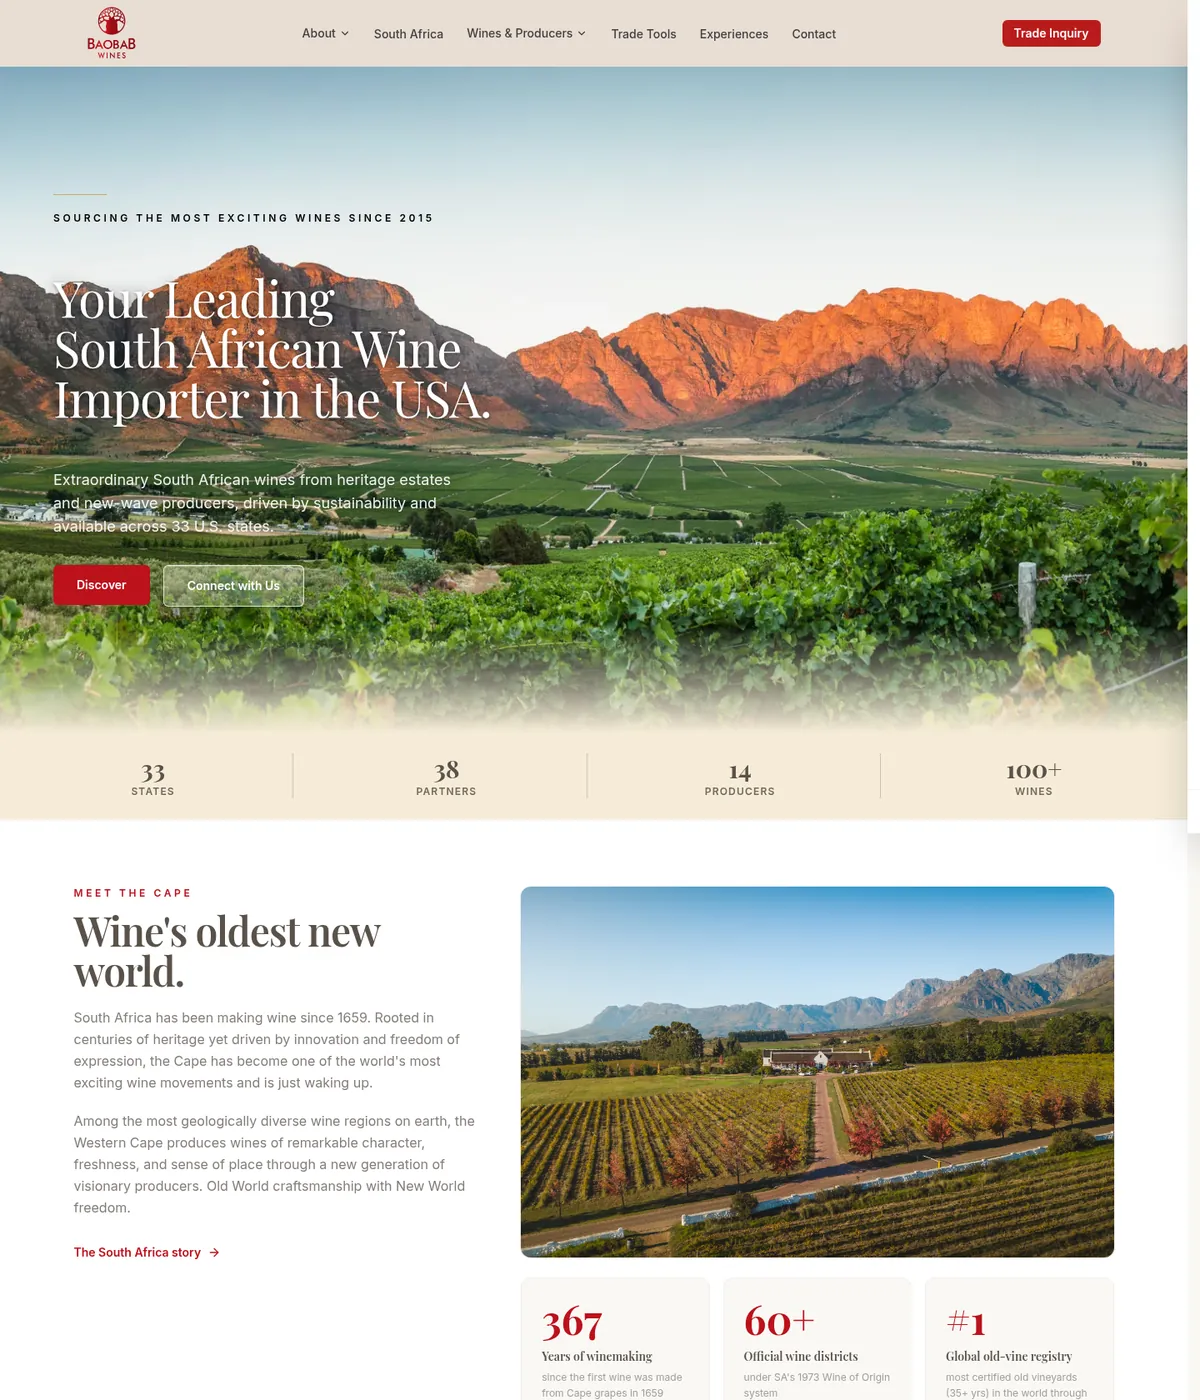
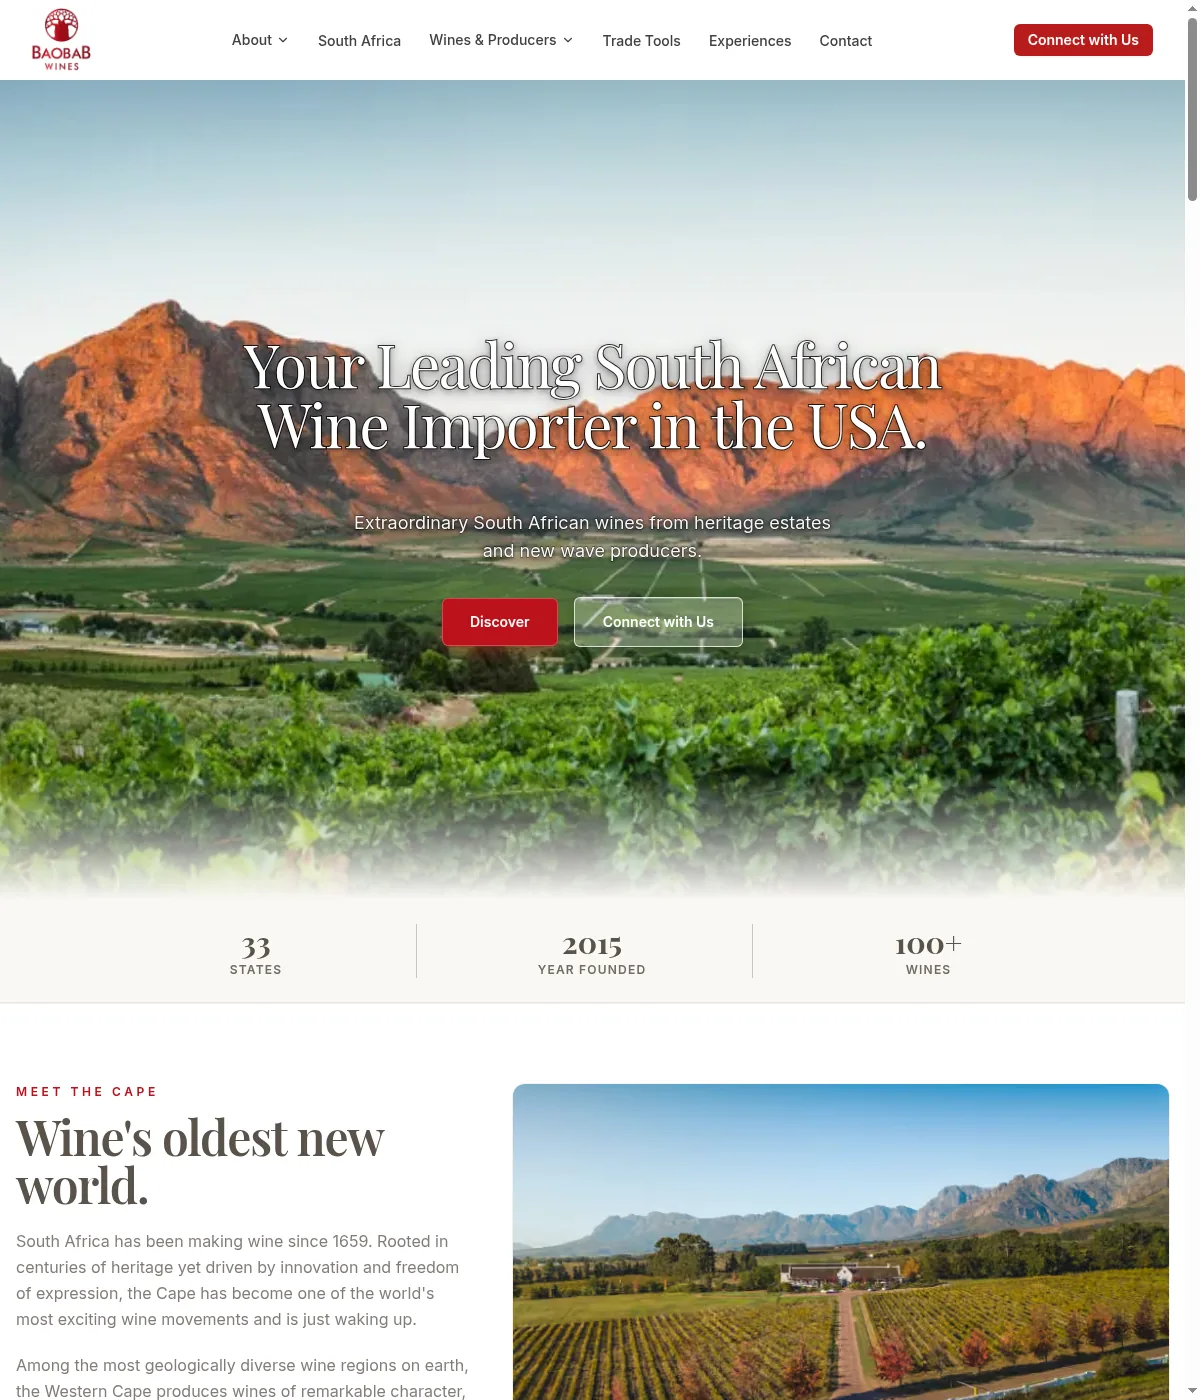
Feature Baobab Wines on the homepage + fix the Search Console redirect and indexing buckets (#32)
* feat(portfolio): feature Baobab Wines as the most recent project

Baobab Wines is live at baobabwines.com with permission from the client, so
it moves out of the "Launching soon" grid card and into the large feature
tile, relabelled "Most recent project". RankSentinel takes the freed grid
slot, keeping the grid an even 3x2, and the cards are reordered most-recent
first: RankSentinel, PC Quanti, AI Focus, Deene Social, Jacqui Chowles,
ReachRight. The logo marquee follows the same order.

The Baobab preview image is re-captured from the current live homepage,
replacing the pre-launch screenshot and the old github.io URL.

Claude-Session: https://claude.ai/code/session_019avkmgUTPETZ8xkQQydVV4

* fix(seo): remove the internal links and redirect targets Google reports as redirects

Search Console lists seven URLs under "Page with redirect" and four under
"Redirect error". Three causes, all in our own markup:

- The footer, the terms pages and the enterprise CTA linked to /privacy,
  /terms, /terms/full and /contact-enterprise without a trailing slash.
  Cloudflare Pages serves the directory form, so every one of those links was
  a 308 for both users and Googlebot. They now point at the slash form that is
  actually served.
- The homepage-anchor redirects in public/_redirects pointed at /#anchor. A
  fragment never reaches the server, so the resolved target is the homepage
  either way; spelling that out keeps the redirect target unambiguous instead
[…]

diff --git a/website/src/pages/Index.tsx b/website/src/pages/Index.tsx
@@ -28,8 +28,8 @@ import {
 } from "@/lib/pricing";
 import "@/styles/home.css";
 
-import pcquantiFull from "@/assets/portfolio/pcquanti-full.webp";
-import pcquantiFullSm from "@/assets/portfolio/pcquanti-full-sm.webp";
+import baobabwinesFull from "@/assets/portfolio/baobabwines-full.webp";
+import baobabwinesFullSm from "@/assets/portfolio/baobabwines-full-sm.webp";
 import ranksentinelImg from "@/assets/portfolio/ranksentinel.webp";
 import pcquantiImg from "@/assets/portfolio/pcquanti.webp";
 import reachrightImg from "@/assets/portfolio/reachright.webp";
@@ -58,12 +58,12 @@ type Project = {
 };
 
 const PROJECTS: Project[] = [
-  { img: pcquantiImg, url: "https://pcquanti.co.za", host: "pcquanti.co.za", name: "PC Quanti", status: "live", label: "Live", delay: ".05s" },
-  { img: reachrightImg, url: "https://reachrightmarketing.com", host: "reachrightmarketing.com", name: "ReachRight", status: "live", label: "Live", delay: ".1s" },
-  { img: deenesocialImg, url: "https://deenesocial.com", host: "deenesocial.com", name: "Deene Social", status: "live", label: "Live", delay: ".15s" },
-  { img: aifocusImg, url: "https://aifocus.work", host: "aifocus.work", name: "AI Focus", status: "live", label: "Live", delay: ".2s" },
+  { img: baobabwinesImg, url: "https://baobabwines.com", host: "baobabwines.com", name: "Baobab Wines", status: "live", label: "Live", delay: ".05s" },
+  { img: pcquantiImg, url: "https://pcquanti.co.za", host: "pcquanti.co.za", name: "PC Quanti", status: "live", label: "Live", delay: ".1s" },
+  { img: aifocusImg, url: "https://aifocus.work", host: "aifocus.work", name: "AI Focus", status: "live", label: "Live", delay: ".15s" },
+  { img: deenesocialImg, url: "https://deenesocial.com", host: "deenesocial.com", name: "Deene Social", status: "live", label: "Live", delay: ".2s" },
   { img: jacquichowlesImg, url: "https://jacquichowles.com", host: "jacquichowles.com", name: "Jacqui Chowles", status: "live", label: "Live", delay: ".25s" },
-  { img: baobabwinesImg, url: "https://jonathanavis96.github.io/baobab-wines/", host: "baobab-wines", name: "Baobab Wines", status: "soon", label: "Launching soon", delay: ".3s" },
+  { img: reachrightImg, url: "https://reachrightmarketing.com", host: "reachrightmarketing.com", name: "ReachRight", status: "live", label: "Live", delay: ".3s" },
 ];
 
 const FAQS: { q: string; a: string }[] = [
@@ -431,15 +431,15 @@ export default function Index() {
             <div className="hero-ai"><span className="cyandot" />Built to be found by AI, not just Google.</div>
           </div>
           <div className="heroframe-wrap">
-            <div className="frame clickable" data-url="https://pcquanti.co.za">
+            <div className="frame clickable" data-url="https://baobabwines.com">
               <div className="fbar">
                 <Lights />
-                <span className="u">pcquanti.co.za</span>
+                <span className="u">baobabwines.com</span>
               </div>
               <button className="expand" title="Open preview" type="button">⤢</button>
               <picture>
-                <source media="(max-width: 860px)" srcSet={pcquantiFullSm} type="image/webp" />
-                <img src={pcquantiFull} alt="PC Quanti website preview" decoding="async" />
+                <source media="(max-width: 860px)" srcSet={baobabwinesFullSm} type="image/webp" />
+                <img src={baobabwinesFull} alt="Baobab Wines website preview" decoding="async" />
               </picture>
             </div>
           </div>
@@ -594,7 +594,7 @@ export default function Index() {
           <div className="marq">
             <div className="track">
               {[0, 1].map((dup) =>
-                ["ReachRight", "Deene Social", "Jacqui Chowles", "RankSentinel", "PC Quanti", "AI Focus", "Baobab Wines"].map((n) => (
+                ["Baobab Wines", "RankSentinel", "PC Quanti", "AI Focus", "Deene Social", "Jacqui Chowles", "ReachRight"].map((n) => (
                   <span key={`${dup}-${n}`}>{n}</span>
                 ))
               )}
@@ -644,7 +644,7 @@ export default function Index() {
               <h3>Custom / Enterprise</h3>
               <p>For bigger or bespoke projects (e-commerce, bookings, integrations), we scope a tailored monthly plan.</p>
             </div>
-            <Link to="/contact-enterprise" className="btn">Talk to us</Link>
+            <Link to="/contact-enterprise/" className="btn">Talk to us</Link>
           </div>
           <p className="pricenote">Free build to get started. Hosting, SSL, backups and pro email included. Need separate mailboxes? Add professional mailbox aliases at {formatAmount(region, MAILBOX_PRICE[region])}/month each.</p>
         </div>

diff --git a/website/scripts/prerender.js b/website/scripts/prerender.js
@@ -15,6 +15,7 @@
 import fs from "fs";
 import path from "path";
 import { fileURLToPath, pathToFileURL } from "url";
+import { execFileSync } from "child_process";
 
 const __dirname = path.dirname(fileURLToPath(import.meta.url));
 const root = path.join(__dirname, "..");
@@ -100,6 +101,35 @@ for (const route of prerenderRoutes) {
 {
   const SITE = "https://alldonesites.com";
   const today = new Date().toISOString().slice(0, 10);
+
+  // lastmod must reflect when the content actually changed, not when we last
+  // deployed. Stamping every URL with today's date on every build teaches
+  // Google to ignore the field entirely, which is the opposite of what we want
+  // for guides and articles we need recrawled promptly. Take the date from the
+  // last commit that touched the file the route's content comes from.
+  const contentFileFor = (route) => {
+    if (route.startsWith("/guides")) return "src/content/guides.tsx";
+    if (route.startsWith("/articles")) return "src/content/articles.tsx";
+    return "src/pages/Index.tsx";
+  };
+  const lastmodCache = new Map();
+  const lastmodFor = (route) => {
+    const file = contentFileFor(route);
+    if (!lastmodCache.has(file)) {
+      let date = today;
+      try {
+        date =
+          execFileSync("git", ["log", "-1", "--format=%cs", "--", file], {
+            cwd: root,
+            encoding: "utf8",
+          }).trim() || today;
+      } catch {
+        // not a git checkout (or git missing) — fall back to the build date
+      }
+      lastmodCache.set(file, date);
+    }
+    return lastmodCache.get(file);
+  };
   const toUrl = (route) => {
     if (route === "/") return `${SITE}/`;
     const clean = route.replace(/^\//, "").replace(/\/$/, "");
@@ -110,7 +140,7 @@ for (const route of prerenderRoutes) {
     const isIndex = r === "/guides" || r === "/articles";
     const priority = r === "/" ? "1.0" : isIndex ? "0.8" : "0.7";
     const changefreq = r === "/" ? "weekly" : "monthly";
-    return `  <url>\n    <loc>${loc}</loc>\n    <lastmod>${today}</lastmod>\n    <changefreq>${changefreq}</changefreq>\n    <priority>${priority}</priority>\n  </url>`;
+    return `  <url>\n    <loc>${loc}</loc>\n    <lastmod>${lastmodFor(r)}</lastmod>\n    <changefreq>${changefreq}</changefreq>\n    <priority>${priority}</priority>\n  </url>`;
   });
   const xml =
     `<?xml version="1.0" encoding="UTF-8"?>\n` +

diff --git a/website/functions/_middleware.js b/website/functions/_middleware.js
@@ -1,0 +1,48 @@
+/**
+ * 301 the legacy spa-github-pages shim URLs to their real path.
+ *
+ * The old GitHub Pages deploy used the rafgraph 404 shim, which encoded a deep
+ * link into the query string: `/?/pricing`, `/?/portfolio`, `/?/contact`. Those
+ * URLs still serve 200 with the homepage in them, so Google holds them as
+ * separate, duplicate-looking pages — all three showed up under "Crawled –
+ * currently not indexed" in Search Console, last crawled between February and
+ * May 2026.
+ *
+ * `_redirects` cannot match on a query string, so this runs as a Pages Function
+ * instead. It is deliberately a single cheap check with an early return, since
+ * it sits in front of every request to the site.
+ */
+
+// Routes that were folded into the homepage in the redesign and are already
+// 301'd there by `public/_redirects`. Sending the shim URL straight to `/`
+// keeps it to one hop instead of `/?/pricing -> /pricing -> /`.
+const FOLDED_INTO_HOMEPAGE = new Set([
+  "/how-it-works",
+  "/pricing",
+  "/portfolio",
+  "/faq",
+  "/contact",
+]);
+
+export async function onRequest(context) {
+  const url = new URL(context.request.url);
+
+  if (url.search.startsWith("?/")) {
+    // The shim wrote `&` as `~and~`; undo that before rebuilding the path.
+    const [rawPath, rawQuery] = url.search.slice(2).replace(/~and~/g, "&").split("?");
+    const target = new URL(url.origin);
+    const path = rawPath.startsWith("/") ? rawPath : `/${rawPath}`;
+    if (FOLDED_INTO_HOMEPAGE.has(path.replace(/\/$/, ""))) {
+      target.pathname = "/";
+    } else {
+      // Pages serves the directory form, so land on it directly rather than
+      // handing the crawler a second 308 on the way.
+      target.pathname = path.endsWith("/") ? path : `${path}/`;
+    }
+    if (rawQuery) target.search = rawQuery;
+    target.hash = url.hash;
+    return Response.redirect(target.toString(), 301);
+  }
+
+  return context.next();
+}

diff --git a/website/src/components/Seo.tsx b/website/src/components/Seo.tsx
@@ -10,6 +10,13 @@ interface SeoProps {
    * If omitted, we compute a sensible default: <origin>/<base>/og.png
    */
   image?: string;
+  /**
+   * Keep the page out of search results. Use for pages that exist only as a
+   * step in a flow (payment confirmation, client-only documents) — they are
+   * crawlable but have no search value, and leaving them indexable is what
+   * produces "Crawled – currently not indexed" noise in Search Console.
+   */
+  noindex?: boolean;
 }
 
 /** Normalize spa-github-pages URLs:
@@ -37,7 +44,7 @@ function normalizeCanonical(raw: string): string {
   }
 }
 
-export default function Seo({ title, description, canonical, jsonLd, image }: SeoProps) {
+export default function Seo({ title, description, canonical, jsonLd, image, noindex }: SeoProps) {
   // 1) Decide canonical: explicit prop wins; else compute from window.location
   let computedCanonical = canonical;
   if (!computedCanonical && typeof window !== "undefined") {
@@ -66,6 +73,7 @@ export default function Seo({ title, description, canonical, jsonLd, image }: Se
       {/* Basic SEO */}
       <title>{title}</title>
       <meta name="description" content={description} />
+      {noindex && <meta name="robots" content="noindex, follow" />}
       {computedCanonical && <link rel="canonical" href={computedCanonical} />}
 
       {/* Open Graph (lightweight, no overkill) */}

diff --git a/website/src/components/layout/Layout.tsx b/website/src/components/layout/Layout.tsx
@@ -143,19 +143,19 @@ export const SiteFooter = () => {
             Contact
           </NavLink>
           <span className="text-muted-foreground">|</span>
-          <NavLink to="/terms#refund-policy" className="text-muted-foreground hover:text-foreground">
+          <NavLink to="/terms/#refund-policy" className="text-muted-foreground hover:text-foreground">
             Refund Policy
           </NavLink>
           <span className="text-muted-foreground">|</span>
-          <NavLink to="/terms#cancellation-policy" className="text-muted-foreground hover:text-foreground">
+          <NavLink to="/terms/#cancellation-policy" className="text-muted-foreground hover:text-foreground">
             Cancellation Policy
           </NavLink>
           <span className="text-muted-foreground">|</span>
-          <NavLink to="/privacy" className="text-muted-foreground hover:text-foreground">
+          <NavLink to="/privacy/" className="text-muted-foreground hover:text-foreground">
             Privacy Policy
           </NavLink>
           <span className="text-muted-foreground">|</span>
-          <NavLink to="/terms/full" className="text-muted-foreground hover:text-foreground">
+          <NavLink to="/terms/full/" className="text-muted-foreground hover:text-foreground">
             Subscription Agreement
           </NavLink>
         </nav>

diff --git a/website/scripts/generate-static-pages.js b/website/scripts/generate-static-pages.js
@@ -40,7 +40,11 @@ const routes = [
     path: 'thank-you',
     title: 'Thank You',
     description: 'Thanks for getting in touch with All Done Sites. We will reply within one business day.',
-    ogTitle: 'Thank You - All Done Sites'
+    ogTitle: 'Thank You - All Done Sites',
+    // Post-payment confirmation. It has no search value, and leaving it
+    // indexable is what puts it in Search Console's "Crawled – currently not
+    // indexed" bucket. `follow` so the footer links are still crawled.
+    noindex: true
   },
   {
     path: 'terms',
@@ -95,6 +99,14 @@ routes.forEach(route => {
     /<meta name="description" content="[^"]*"/i,
     `<meta name="description" content="${route.description}"`
   );
+
+  // Keep flow-only pages out of the index
+  if (route.noindex) {
+    html = html.replace(
+      /<\/head>/i,
+      '  <meta name="robots" content="noindex, follow">\n</head>'
+    );
+  }
 
   // Update Open Graph URL
   html = html.replace(

diff --git a/website/src/pages/Terms.tsx b/website/src/pages/Terms.tsx
@@ -61,7 +61,7 @@ export default function Terms() {
             Payment processing is handled by <strong>Paystack</strong>; we do not store full card details on our servers.
           </p>
           <p>
-            For the full details, see our <Link to="/privacy">Privacy Policy</Link>.
+            For the full details, see our <Link to="/privacy/">Privacy Policy</Link>.
           </p>
         </section>
 
@@ -97,7 +97,7 @@ export default function Terms() {
           <h2>Full Subscription Agreement</h2>
           <p>
             The above policies are a summary. For the complete legal framework, read our{" "}
-            <Link to="/terms/full">Full Subscription Agreement</Link>.
+            <Link to="/terms/full/">Full Subscription Agreement</Link>.
           </p>
         </section>
       </div>

diff --git a/website/src/components/redesign/RedesignChrome.tsx b/website/src/components/redesign/RedesignChrome.tsx
@@ -87,8 +87,8 @@ export function RedesignFooter() {
           <div className="col">
             <div className="ftitle">Company</div>
             <Link to="/#getquote">Contact</Link>
-            <Link to="/privacy">Privacy</Link>
-            <Link to="/terms">Terms</Link>
+            <Link to="/privacy/">Privacy</Link>
+            <Link to="/terms/">Terms</Link>
           </div>
           <div className="col">
             <div className="ftitle">Get in touch</div>

diff --git a/website/src/pages/TermsFull.tsx b/website/src/pages/TermsFull.tsx
@@ -15,7 +15,7 @@ export default function TermsFull() {
         description="The full All Done Sites website subscription agreement."
       />
       <div className="legal">
-        <Link to="/terms" className="backlink">← Back to Terms &amp; Policies (summary)</Link>
+        <Link to="/terms/" className="backlink">← Back to Terms &amp; Policies (summary)</Link>
 
         <section id="snapshot">
           <h2>Plain-English Snapshot</h2>

diff --git a/website/src/pages/ThankYou.tsx b/website/src/pages/ThankYou.tsx
@@ -61,6 +61,7 @@ export default function ThankYou() {
       <Seo
         title="Thank You | All Done Sites"
         description="Thanks for subscribing. Provide a few details so we can start building your site."
+        noindex
       />
       <div className="pageform">
         <div className="confirm">
